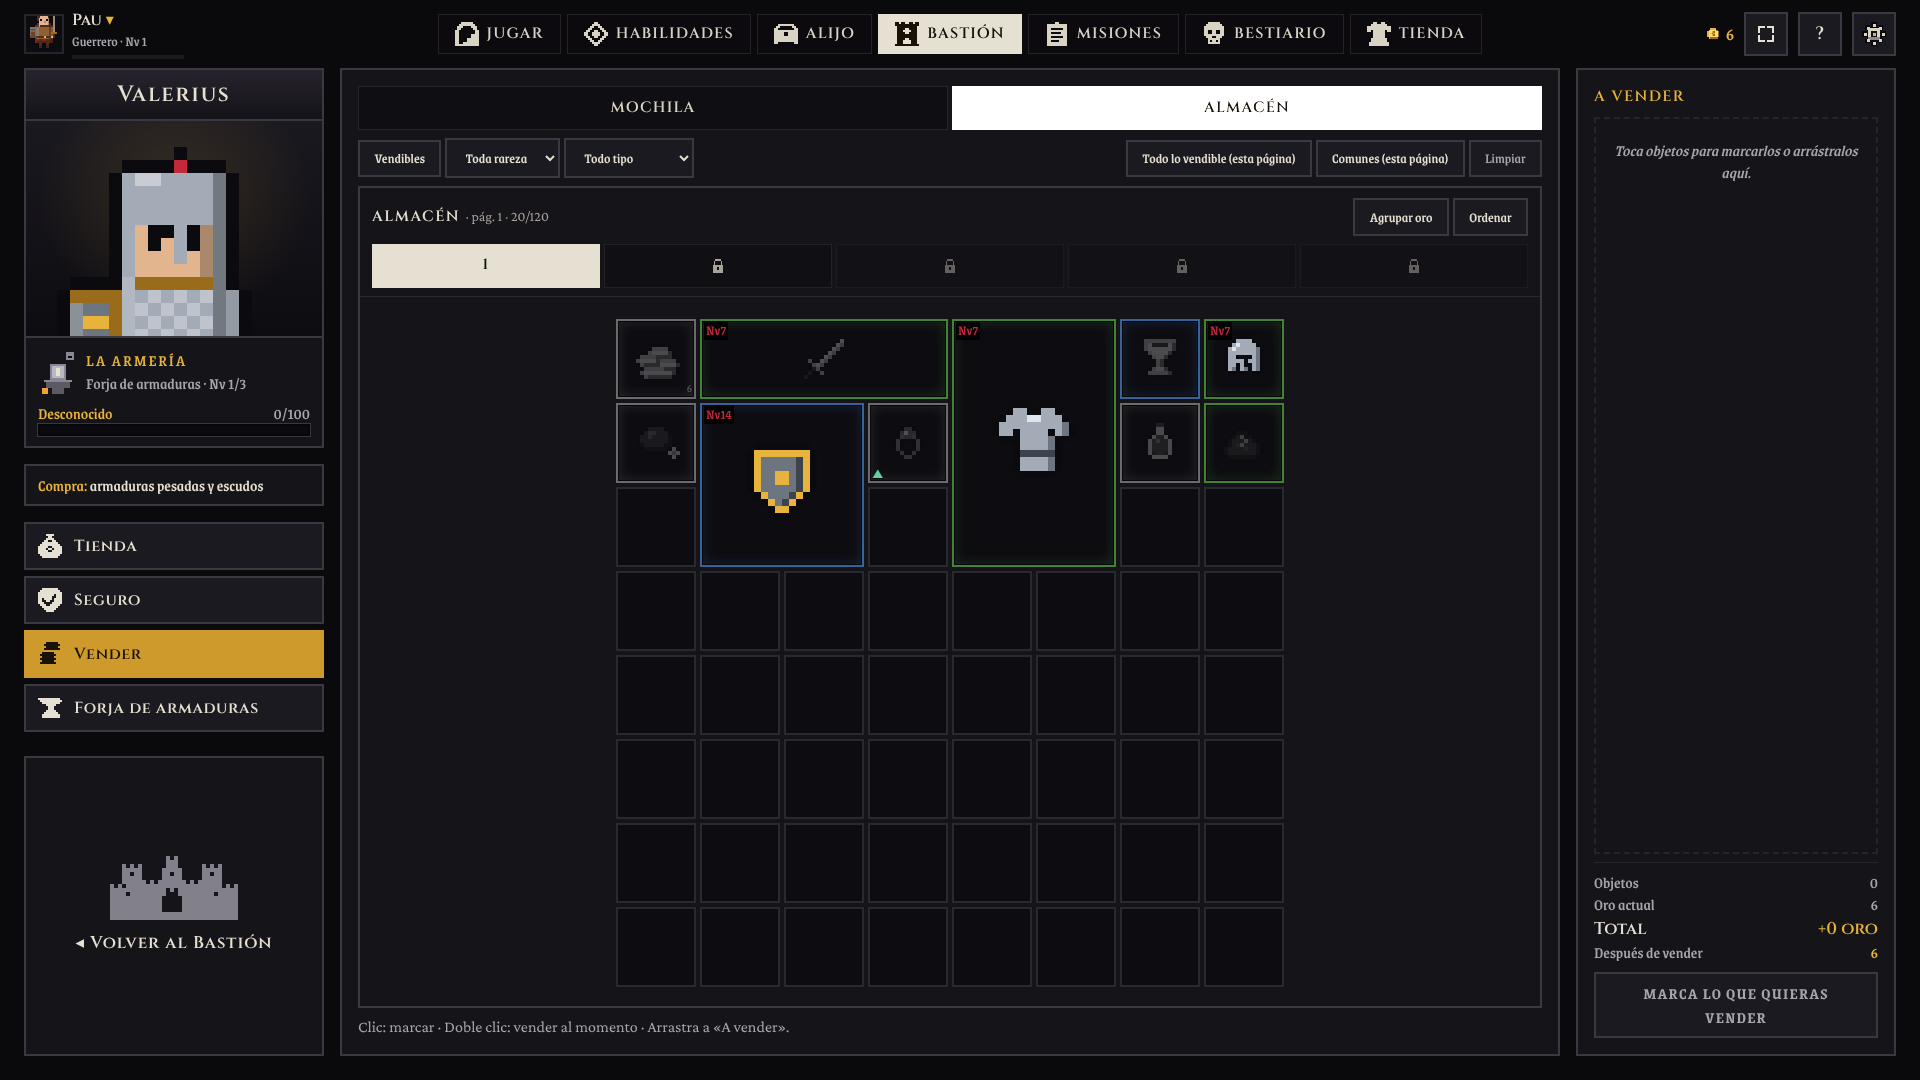
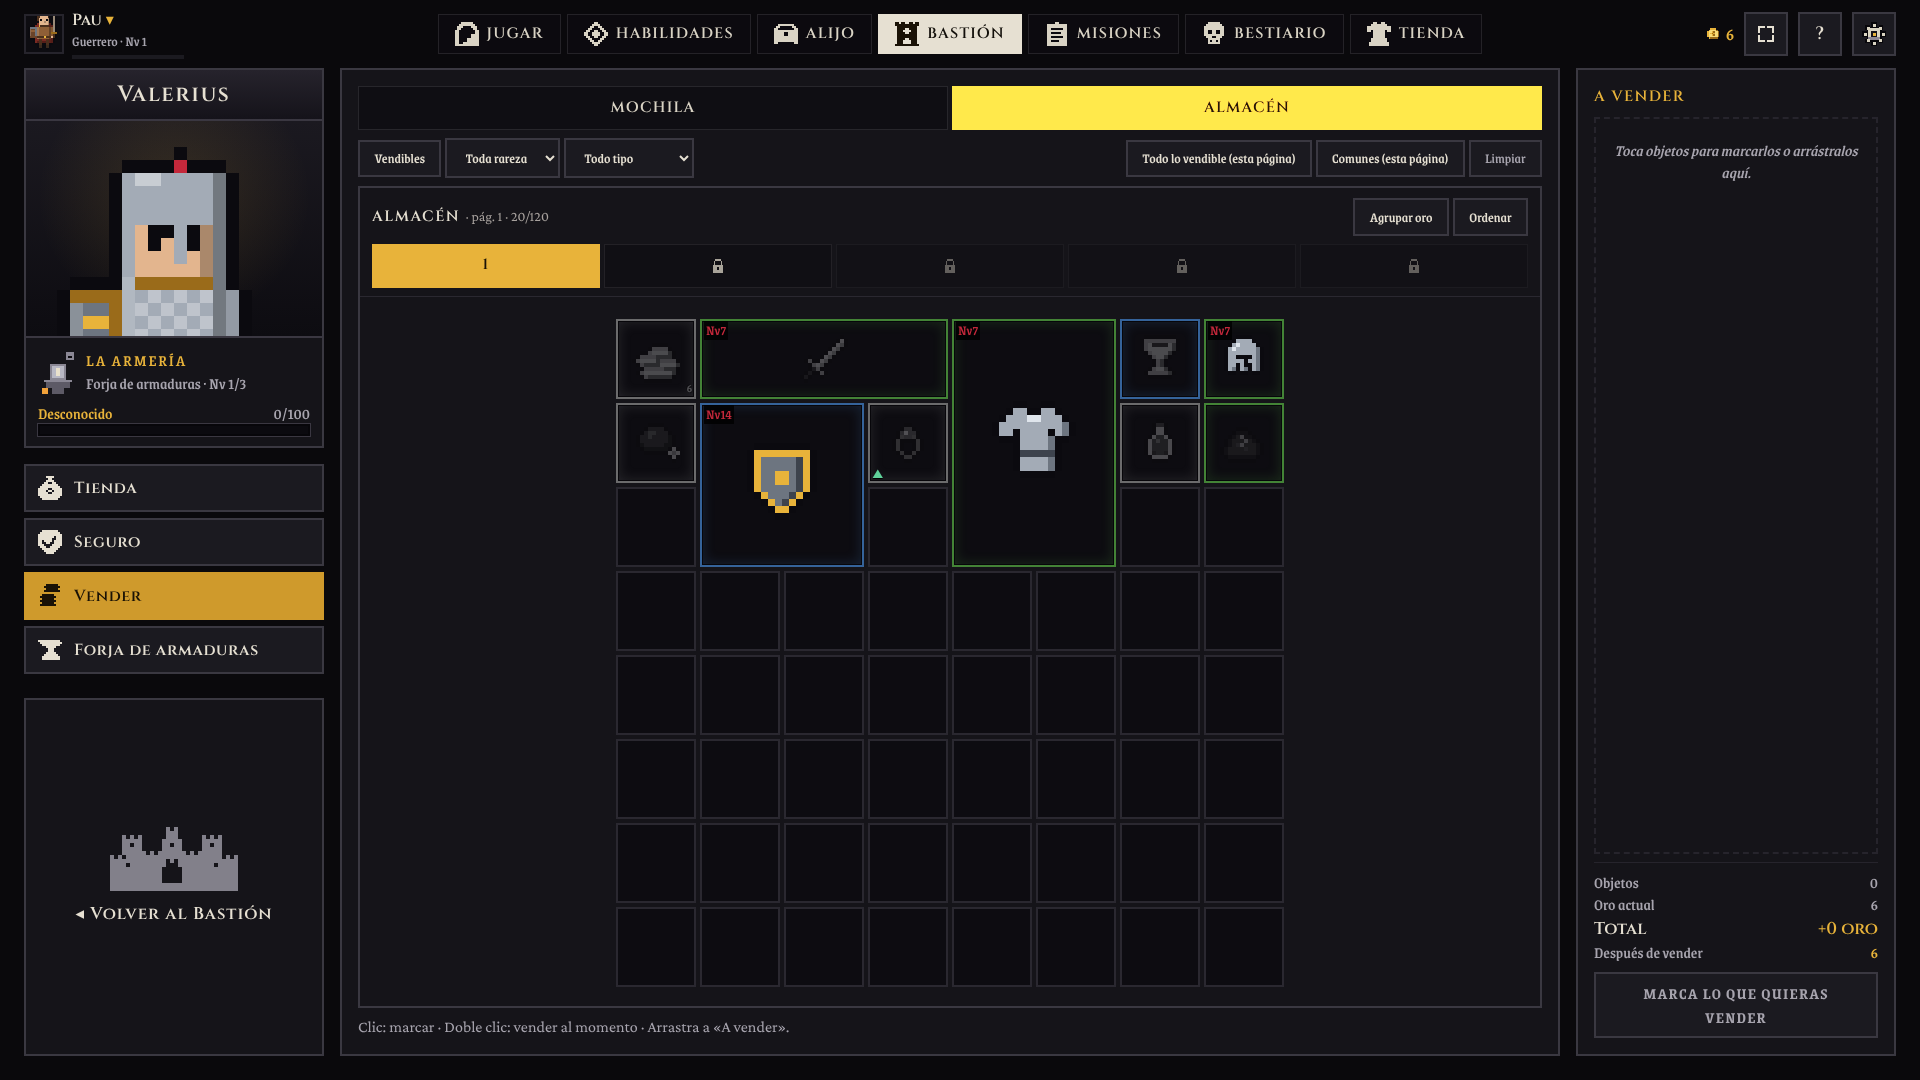
Gravevow (Vesrions 0.9.7.1)

diff --git a/src/game/ui/screens/Mercaderes.tsx b/src/game/ui/screens/Mercaderes.tsx
@@ -27,7 +27,7 @@ import { GridView, ItemIcon, isUpgrade, SellFilter } from '../inventory';
 import { useDrag, useClearOnDrop } from '../pointerDrag';
 import { useIsTouch } from '../../../shared/device';
 import { buysThis, vendorSellPrice } from '../../../core/economy';
-import { TRADE, buyerOpen, wrongBuyerText } from '../../../core/sellRoutes';
+import { buyerOpen, wrongBuyerText } from '../../../core/sellRoutes';
 import { pageSlice, pageStart } from '../../../core/stashPages';
 import { isCover } from '../../../core/inventory';
 import { isCoins } from '../../../core/gold';
@@ -306,7 +306,6 @@ function VendorInterior({ vendor, initial, onBack, onGo, onQuests }: { vendor: V
         <span className="vtile-rep"><RepBar rep={rep} />{discount > 0 && <span className="block text-[13px] text-heal mt-0.5">{Math.round(discount * 100)} % de descuento</span>}</span>
       </div>
       {questLink}
-      <div className="panel px-3 py-2 text-[14px] leading-snug shrink-0" data-testid="vendor-buys"><span className="text-gold">Compra:</span> <span className="text-parchment">{TRADE[vendor].toLowerCase()}</span>{!buyerOpen(profile, vendor) && <span className="block text-[13px]" style={{ color: '#e0a060' }} data-testid="sell-closed">Aún no: reconstruye su estación. Mientras, lo compra Nira.</span>}</div>
       {tabBar}
       {pendBox}
       <button type="button" className="panel vback-card flex-1" onClick={onBack} data-testid="vendor-back">
@@ -531,7 +530,9 @@ function SalePanel({ vendor, marks, setMarks, onSold, sel, setSel }: { vendor: V
               <span className="text-gold shrink-0 text-right" style={{ minWidth: 34 }}>{r.price}</span>
               <button className="qbtn x" onClick={() => setMarks(marks.filter((x) => x !== r.k))} aria-label="Quitar de la venta" data-testid="sale-remove">✕</button>
             </li>))}</ul>
-        ) : <p className="text-[13px] text-stone-400 italic text-center py-3">Toca objetos para marcarlos o arrástralos aquí.</p>}
+        ) : !buyerOpen(profile, vendor)
+          ? <p className="text-[14px] text-center py-3" style={{ color: '#e0a060' }} data-testid="sell-closed">{VENDORS[vendor].name} aún no compra: reconstruye su estación. Mientras, lo compra Nira en El Mercado.</p>
+          : <p className="text-[13px] text-stone-400 italic text-center py-3">Toca objetos para marcarlos o arrástralos aquí.</p>}
         {buyback.length > 0 && (
           <div className="mt-3 pt-2 border-t border-stone-800" data-testid="buyback">
             <div className="text-[12px] tracking-[0.15em] uppercase text-stone-400 mb-1">Recomprar (mientras sigas aquí)</div>

diff --git a/src/game/ui/inventory.tsx b/src/game/ui/inventory.tsx
@@ -18,7 +18,7 @@ import { canPlace, isCover, LAYOUTS, stackSize, type Loc } from '../../core/inve
 import { fmtWeight, stackWeight } from '../../core/carry';
 import { capacityOf, isCoins } from '../../core/gold';
 import { vendorSellPrice } from '../../core/economy';
-import { BUYER_NAME, BUYER_TAG, PLACE, sellable, whoBuys } from '../../core/sellRoutes';
+import { BUYER_NAME, PLACE, sellable, whoBuys } from '../../core/sellRoutes';
 import { VENDORS } from '../../core/data/vendors';
 import { iconUrl } from '../../shared/art';
 import { actions, useGame } from '../state/store';
@@ -282,7 +282,6 @@ export function ItemSlot({ stack, loc, lootId, equipment, mode, selected, placeh
       {stack && insured?.includes(stack.uid) && <span className="slot-seal"><Seal scale={sealScale} /></span>}
       {stack && (() => { const w = wearLevel(stack); return w === 'ok' ? null : <span className="slot-wear" data-testid="slot-wear" data-wear={w} style={{ background: WEAR_COLOR[w], width: w === 'broken' ? '100%' : `${Math.max(8, Math.round((durability(stack) / maxDurability(stack)) * 100))}%` }} title={w === 'broken' ? 'Rota' : 'Desgastada'} />; })()}
       {stack && stack.locked && <span className="slot-lock" title="Protegido: no se vende ni se desguaza" aria-label="Protegido" data-testid="slot-lock"><LockGlyph /></span>}
-      {buyer && mode === 'lobby' && !stack?.locked && <span className="slot-buyer" style={{ color: VENDORS[buyer].color }} title={`Lo compra ${BUYER_NAME[buyer]}`} data-testid="slot-buyer">{BUYER_TAG[buyer]}</span>}
       {marked && <span className="mark-coin" aria-label="Marcado para vender" data-testid="slot-marked" />}
       {stack && capacityOf(stack) > 0 && <span className="qty" data-testid="slot-gold" style={{ color: stack.gold ? '#f2c75a' : '#a8a29e', fontSize: cell && cell.w > 1 ? 13 : 12 }}>{stack.gold ?? 0}/{capacityOf(stack)}</span>}
       {stack && loc.kind === 'grid' && !tooHigh && !wrongClass && upgrade && <span className="slot-up" title="Mejor que lo que llevas puesto" data-testid="slot-upgrade">▲</span>}

diff --git a/src/game/game.css b/src/game/game.css
@@ -1440,7 +1440,6 @@ button.share-slot{cursor:pointer}
 @media (max-height:560px){.ins-how{grid-template-columns:repeat(4,minmax(0,1fr))}.ins-how-item{padding:4px 6px;align-items:center}.ins-how-item span span{display:none}.ins-how-item b{font-size:12px;line-height:1.2}.ins-pend{padding:6px;gap:4px}.ins-pend-row{min-height:48px}}
 
 /* Venta por oficio: quién compra cada objeto y, en la venta, lo que este mercader no compra */
-.slot .slot-buyer { position: absolute; right: 1px; top: 1px; font: 600 12px/1 Georgia, serif; background: #0b0a0f; padding: 1px 2px; pointer-events: none; }
 .slot.slot-nobuy > img, .slot.slot-nobuy > canvas, .slot.slot-nobuy > .qty { opacity: .3; filter: grayscale(1); }
 /* Venta (rediseño 24/11): filtro, candado, filas con cantidad, aviso de oro */
 .slot.slot-filtered > img, .slot.slot-filtered > canvas, .slot.slot-filtered > .qty { opacity: .12; filter: grayscale(1); }
@@ -1462,3 +1461,5 @@ button.share-slot{cursor:pointer}
 @media (min-width: 1100px) and (max-width: 1599px) and (min-height: 760px) { .sell-center { --slot: 60px; } }
 /* Venta en ordenador grande: casillas de 72–80 px, icono a ×4 (48 px) */
 @media (min-width: 1600px) and (min-height: 900px) { .sell-center .slot > img[width="36"] { width: 48px; height: 48px; } }
+/* Venta: pestañas y páginas elegidas en dorado (no en blanco) */
+.sell-center .pill.on { background: #e8b33a; border-color: #e8b33a; color: #1a1206; }

diff --git a/src/core/data/tutorials.ts b/src/core/data/tutorials.ts
@@ -182,7 +182,7 @@ export const MINI_TUTORIALS: MiniTutorial[] = [
     steps: [
       { text: 'Bien vendido. El oro va a tu **Alijo**, en saquitos.' },
       { text: 'Si te equivocas, lo último que vendes se puede **recomprar** al mismo precio.' },
-      { text: 'Cada mercader compra **lo de su oficio**. Las letras en la esquina de cada objeto te dicen a quién llevárselo.' },
+      { text: 'Cada mercader compra **lo de su oficio**. La ficha de cada objeto te dice a quién llevárselo.' },
       { text: 'Lo que no quieras vender nunca, **protégelo** desde su ficha: con el candado no se vende ni se desguaza.' },
     ],
   },

diff --git a/docs/guia-interfaz.md b/docs/guia-interfaz.md
@@ -253,8 +253,8 @@ Sin botón «Ver detalles». En el móvil, nivel y atributos van bajo el equipo,
 - **Columna izquierda (los tres formatos):** tarjeta del mercader igual que en la página Bastión (`vtile vcard`: nombre, busto, lugar, estado de la estación, reputación y descuento), debajo las pestañas en columna (`.vtabs-col`, botones de 48 px —44 en móvil— con icono 12×12 a ×2 de `VENDOR_TAB_ICONS`; la activa en dorado), el aviso «Pendiente» y, al final, la tarjeta «◂ Volver al Bastión» (`.vback-card`, silueta `BASTION_SKYLINE` a ×6 en escritorio y ×4 en tableta; en tableta el rótulo es «◂ Bastión»). En el móvil: retrato pequeño y nombre, pestañas y el botón `.vback`. El `data-testid` `vendor-back` está en la tarjeta o el botón.
 - **Tienda:** `ShopStock` pinta filas `.shop-row` (`shop-row-<id>`); tocar elige (borde dorado). La ficha es `ShopCard`, con el único botón dorado `buy-<id>` («Comprar · N oro»; si no llega el oro, botón secundario «Te faltan N de oro»). En escritorio y tableta va en la columna derecha encima de «Tu mochila · n/24»; en el móvil sale encima (`shop-card-overlay`, cerrar con `shop-card-close`). Doble clic en una fila compra. Precio: `PriceTag` (texto dorado con moneda; rojo si no llega). Bloqueado: atenuado con candado y rango; «Otra clase» en rojo.
 - **Sin título de panel** en el centro (el nombre ya está en la tarjeta). Los scripts que compran tocan antes `shop-row-<id>`.
-- **Vender (los 8 mercaderes, 24/11):** tres columnas. Izquierda: «Compra: …» bajo la tarjeta. Centro: pestañas Mochila · Almacén · Compartido (pills de 44 px; en el almacén las casillas crecen a lo ancho hasta 80 px en ordenador y 60 en tableta, con icono a ×4 en ordenador grande, y las filas que no caben se desplazan) y barra de herramientas (botones de 36 px con ratón y 44 en táctil): «Vendibles», rareza, tipo, «Todo lo vendible», «Comunes», «Limpiar»; la selección rápida dice su alcance («mochila» o «esta página»). Estados de casilla: vendible normal; no lo compra, en gris (`.slot-nobuy`); fuera del filtro, casi invisible (`.slot-filtered`); marcada, doble contorno dorado y moneda; protegida, candado dorado de 7×8 arriba a la derecha. Derecha: lista con cantidad (− / número / + / ×N) y, abajo fija, total y botón «Vender N objetos · X oro» (48 px; en el móvil, resumen en una línea y 44 px). Al vender, «+N oro» sube junto al botón.
-- **Comprador en el inventario:** iniciales en la esquina superior derecha de cada casilla de mochila y almacén (`.slot-buyer`, 12 px, color del mercader) y la línea «Lo compra X · lugar» en la ficha (`item-card-buyer`) y la ventanita (`tooltip-buyer`). Nunca solo color: siempre texto.
+- **Vender (los 8 mercaderes, 24/11):** tres columnas. Izquierda: la tarjeta del mercader, sin «Compra: …» (quitado el 24/11; si su estación está en ruinas, lo dice la lista «A vender»). Centro: pestañas Mochila · Almacén · Compartido (pills de 44 px, la elegida en dorado; en el almacén las casillas crecen a lo ancho hasta 80 px en ordenador y 60 en tableta, con icono a ×4 en ordenador grande, y las filas que no caben se desplazan) y barra de herramientas (botones de 36 px con ratón y 44 en táctil): «Vendibles», rareza, tipo, «Todo lo vendible», «Comunes», «Limpiar»; la selección rápida dice su alcance («mochila» o «esta página»). Estados de casilla: vendible normal; no lo compra, en gris (`.slot-nobuy`); fuera del filtro, casi invisible (`.slot-filtered`); marcada, doble contorno dorado y moneda; protegida, candado dorado de 7×8 arriba a la derecha. Derecha: lista con cantidad (− / número / + / ×N) y, abajo fija, total y botón «Vender N objetos · X oro» (48 px; en el móvil, resumen en una línea y 44 px). Al vender, «+N oro» sube junto al botón.
+- **Comprador en el inventario:** sin iniciales en las casillas (quitadas el 24/11); la ficha (`item-card-buyer`) y la ventanita (`tooltip-buyer`) dicen «Lo compra X · lugar».
 
 ## Ficha de objeto (fase 3)
 - Regla: la ficha nunca se pone encima de la mochila ni del contenedor del que sale el objeto. Ocupa una columna propia o la de algo secundario (Aventurero en tableta, la mochila en la vista Almacén del móvil).

diff --git a/docs/estado-trabajo.md b/docs/estado-trabajo.md
@@ -4,6 +4,9 @@
 Este documento resume todo lo hablado y hecho para que otro chat de Claude pueda continuar sin perder contexto.
 Léelo junto con CLAUDE.md (reglas permanentes del proyecto).
 
+## Novedades del 24/11 (4): retoques de la venta
+- Fuera las iniciales del comprador en todas las casillas (también en el Alijo) y la caja «Compra: …» de todos los mercaderes. Si el especialista no tiene estación, lo avisa la lista «A vender» (`sell-closed`). Pestañas y páginas elegidas de la venta, en dorado. Almacén de la venta: casillas a lo ancho hasta 80 px (`StashPanel fill`).
+
 ## Novedades del 24/11 (3): rediseño de la pantalla de venta
 - Tres columnas. Izquierda: el mercader con «Compra: …» (`vendor-buys`; si su estación está en ruinas, `sell-closed`). Centro: pestañas Mochila · Almacén · Compartido (`sell-tab-*`; el almacén con sus páginas, sin la de Compartido) y barra `sell-tools`: «Vendibles», rareza, tipo, «Todo lo vendible (mochila / esta página)», «Comunes (…)» y «Limpiar». Derecha: lista «A vender» (cantidad elegible en las pilas, «Por precio»), ficha del objeto elegido y, abajo fija, objetos, oro actual, total, oro después y el botón.
 - Los filtros solo apagan casillas (`SellFilter`, `.slot-filtered`): nada cambia de sitio. La selección se recuerda entre pestañas y páginas. Lo del Compartido no se vende (como antes): sale apagado y lo dice.
